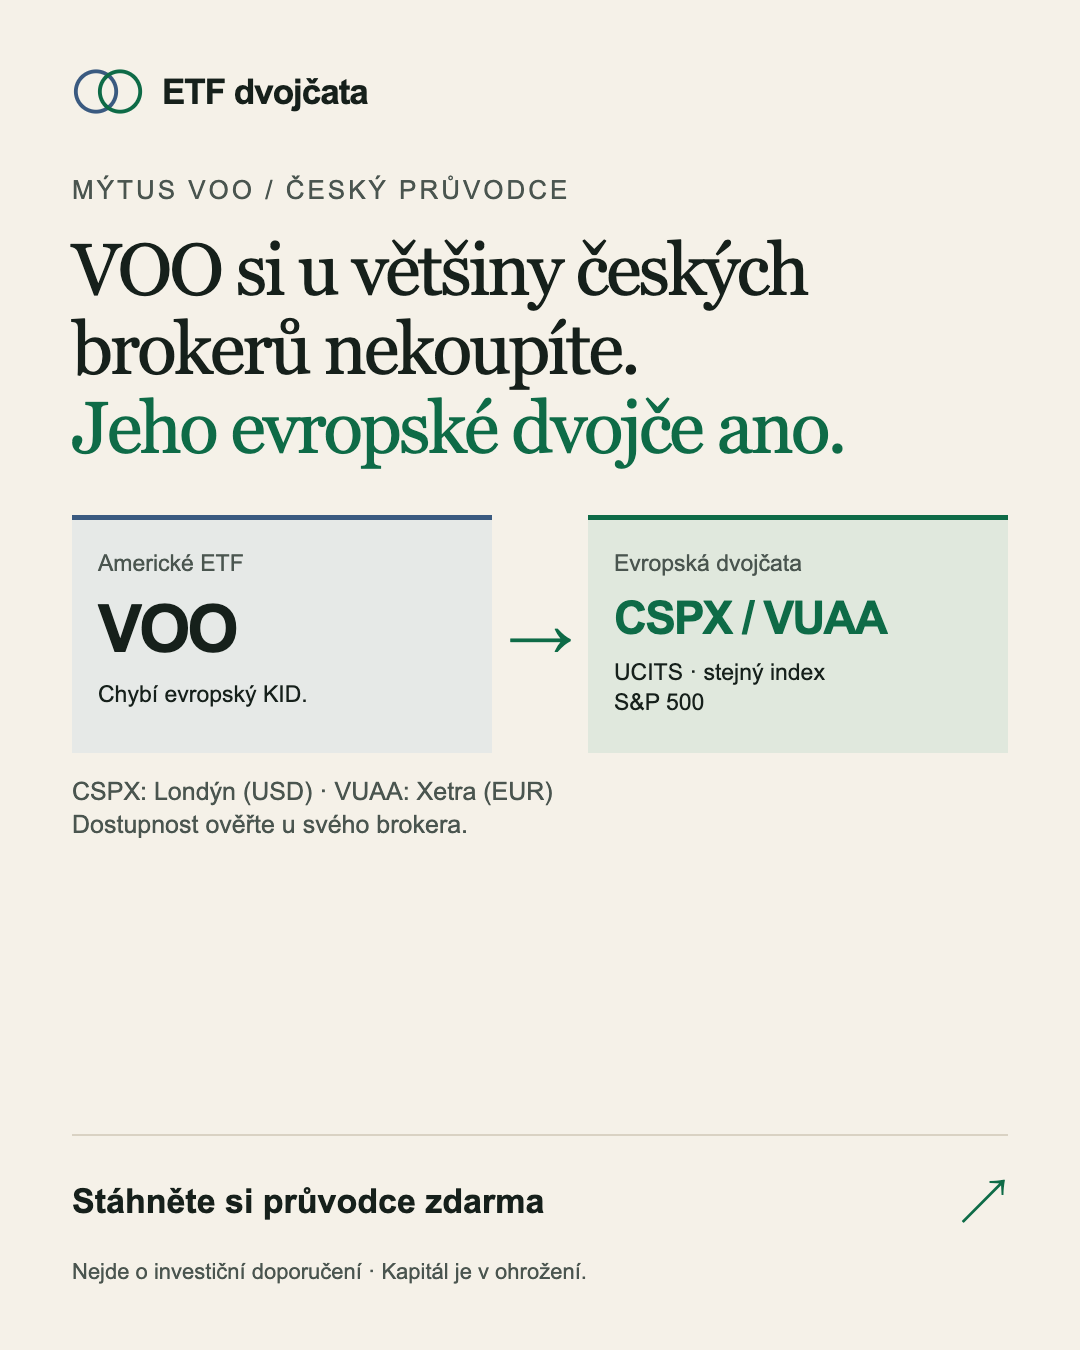
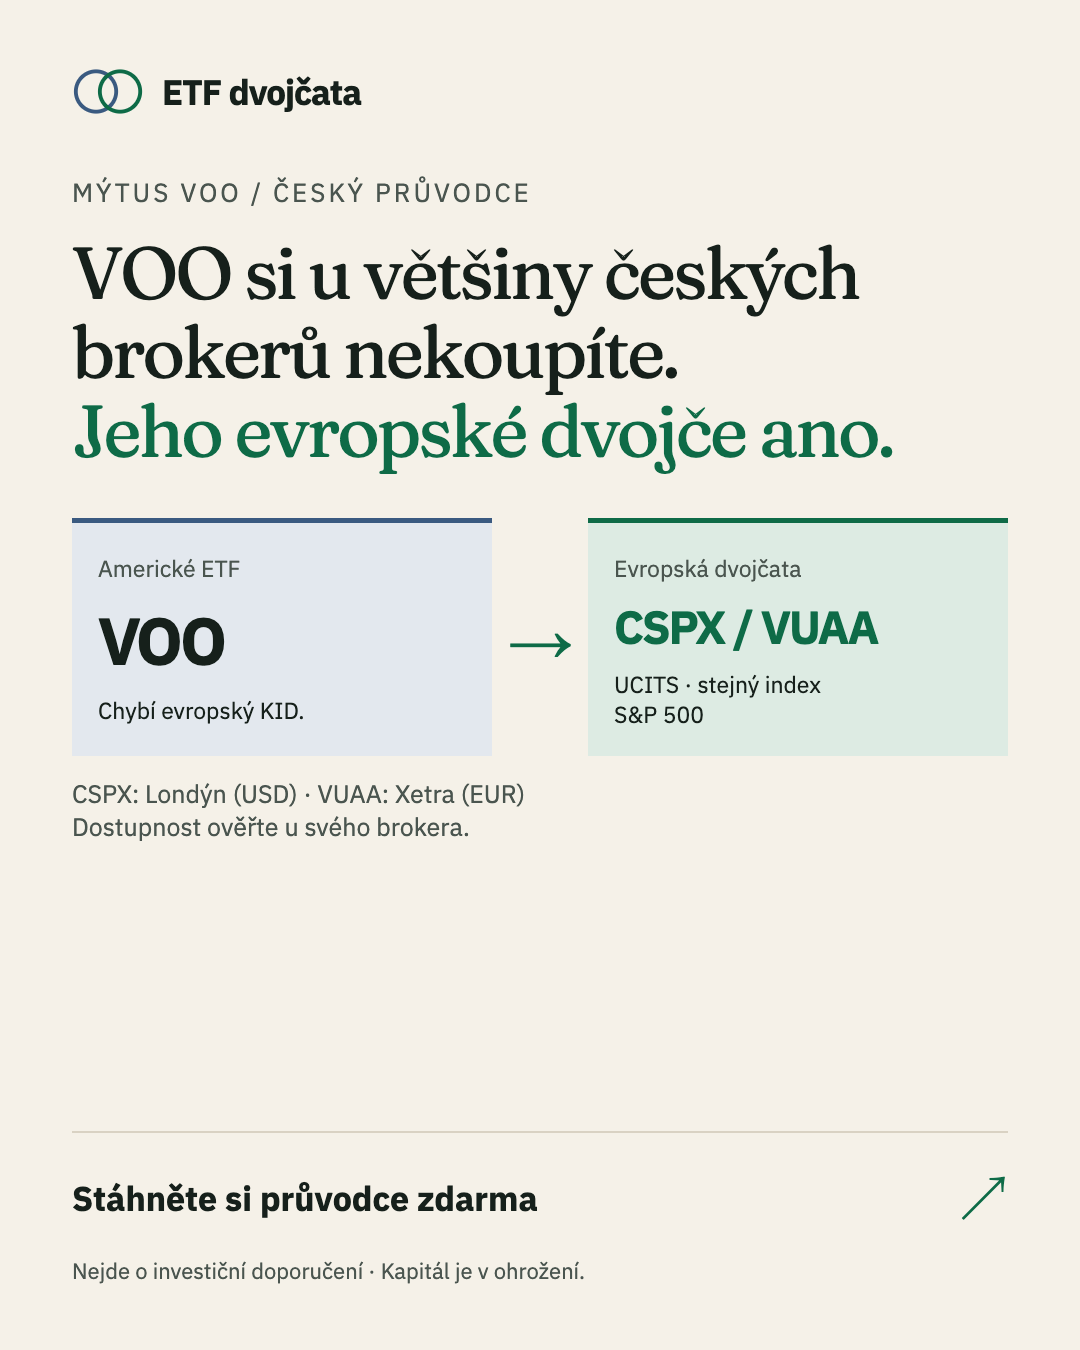
Align ad typography and colors with landing tokens

diff --git a/ads/creative.css b/ads/creative.css
@@ -1,2 +1,51 @@
-:root{--paper:#F5F1E8;--ink:#16201B;--muted:#4A554F;--rules:#D9D2C3;--us:#3A5A80;--eu:#0E6B47;--accent:#B83A16;--highlight:#F2E36B}
-*{box-sizing:border-box}html,body{margin:0;width:1080px;background:var(--paper);color:var(--ink)}body{font-family:Arial,Helvetica,sans-serif}.canvas{width:1080px;height:1350px;padding:68px 72px;overflow:hidden;position:relative}.brand{display:flex;align-items:center;gap:17px;font-size:35px;font-weight:700;letter-spacing:-1px}.brand svg{width:73px;height:47px}.eyebrow{margin:60px 0 25px;font-size:26px;letter-spacing:3px;text-transform:uppercase;color:var(--muted)}h1{font-family:Georgia,serif;font-weight:400;font-size:73px;line-height:1.08;letter-spacing:-2.8px;margin:0}.em{color:var(--eu)}.twins{display:grid;grid-template-columns:1fr 64px 1fr;align-items:center;gap:16px;margin-top:48px}.card{height:238px;padding:30px 26px;border-top:5px solid var(--us);background:#e6e9e7}.card.eu{border-color:var(--eu);background:#e0e8dd}.card small{display:block;font-size:23px;color:var(--muted);margin-bottom:14px}.ticker{font-size:66px;letter-spacing:-3px;font-weight:700}.eu .ticker{font-size:46px;letter-spacing:-2px;white-space:nowrap;color:var(--eu)}.card p{font-size:23px;line-height:1.3;margin:13px 0 0}.arrow{font-size:65px;color:var(--eu)}.caption{font-size:25px;line-height:1.3;color:var(--muted);margin:22px 0 0}.bottom{position:absolute;left:72px;right:72px;bottom:65px}.cta{border-top:2px solid var(--rules);padding-top:29px;display:flex;justify-content:space-between;align-items:center;font-size:34px;font-weight:700}.cta span:last-child{color:var(--eu);font-size:48px}.disclaimer{font-size:22px;color:var(--muted);margin:22px 0 0}.story .canvas{height:1920px;padding-top:275px;padding-bottom:275px}.story .eyebrow{margin-top:80px}.story h1{font-size:82px;line-height:1.12}.story .twins{margin-top:65px}.story .card{height:270px;padding-top:38px}.story .bottom{bottom:275px}.b h1{font-size:70px}.b .number{display:block;font-family:Arial,Helvetica,sans-serif;font-weight:700;font-size:106px;letter-spacing:-5px;white-space:nowrap;margin:18px 0 12px;color:var(--accent)}.b .years{display:block;font-size:62px;letter-spacing:-2px}.fx-strip{margin-top:44px;display:grid;grid-template-columns:1fr 100px 1fr;gap:18px;align-items:center;background:var(--highlight);padding:28px 32px}.fx-strip div{font-size:32px;font-weight:700}.fx-strip small{font-size:23px;font-weight:400;display:block;margin-bottom:8px}.fx-strip .middle{font-size:42px;text-align:center;font-weight:400}.fx-note{font-size:28px;line-height:1.35;margin:24px 0 0;color:var(--muted)}.b.story h1{font-size:80px}.b.story .number{font-size:110px;margin-top:30px}.b.story .fx-strip{margin-top:55px}.b.story .fx-note{font-size:31px}
+@import url("../src/styles/tokens.css");
+@font-face {
+  font-family: 'Fraunces Variable';
+  font-style: normal;
+  font-display: block;
+  font-weight: 100 900;
+  src: url(../node_modules/@fontsource-variable/fraunces/files/fraunces-latin-ext-wght-normal.woff2) format('woff2-variations');
+  unicode-range: U+0100-02BA,U+02BD-02C5,U+02C7-02CC,U+02CE-02D7,U+02DD-02FF,U+0304,U+0308,U+0329,U+1D00-1DBF,U+1E00-1E9F,U+1EF2-1EFF,U+2020,U+20A0-20AB,U+20AD-20C0,U+2113,U+2C60-2C7F,U+A720-A7FF;
+}
+@font-face {
+  font-family: 'Fraunces Variable';
+  font-style: normal;
+  font-display: block;
+  font-weight: 100 900;
+  src: url(../node_modules/@fontsource-variable/fraunces/files/fraunces-latin-wght-normal.woff2) format('woff2-variations');
+  unicode-range: U+0000-00FF,U+0131,U+0152-0153,U+02BB-02BC,U+02C6,U+02DA,U+02DC,U+0304,U+0308,U+0329,U+2000-206F,U+20AC,U+2122,U+2191,U+2193,U+2212,U+2215,U+FEFF,U+FFFD;
+}
+@font-face {
+  font-family: 'IBM Plex Sans';
+  font-style: normal;
+  font-display: block;
+  font-weight: 400;
+  src: url(../node_modules/@fontsource/ibm-plex-sans/files/ibm-plex-sans-latin-ext-400-normal.woff2) format('woff2'), url(../node_modules/@fontsource/ibm-plex-sans/files/ibm-plex-sans-latin-ext-400-normal.woff) format('woff');
+  unicode-range: U+0100-02BA,U+02BD-02C5,U+02C7-02CC,U+02CE-02D7,U+02DD-02FF,U+0304,U+0308,U+0329,U+1D00-1DBF,U+1E00-1E9F,U+1EF2-1EFF,U+2020,U+20A0-20AB,U+20AD-20C0,U+2113,U+2C60-2C7F,U+A720-A7FF;
+}
+@font-face {
+  font-family: 'IBM Plex Sans';
+  font-style: normal;
+  font-display: block;
+  font-weight: 400;
+  src: url(../node_modules/@fontsource/ibm-plex-sans/files/ibm-plex-sans-latin-400-normal.woff2) format('woff2'), url(../node_modules/@fontsource/ibm-plex-sans/files/ibm-plex-sans-latin-400-normal.woff) format('woff');
+  unicode-range: U+0000-00FF,U+0131,U+0152-0153,U+02BB-02BC,U+02C6,U+02DA,U+02DC,U+0304,U+0308,U+0329,U+2000-206F,U+20AC,U+2122,U+2191,U+2193,U+2212,U+2215,U+FEFF,U+FFFD;
+}
+@font-face {
+  font-family: 'IBM Plex Sans';
+  font-style: normal;
+  font-display: block;
+  font-weight: 700;
+  src: url(../node_modules/@fontsource/ibm-plex-sans/files/ibm-plex-sans-latin-ext-700-normal.woff2) format('woff2'), url(../node_modules/@fontsource/ibm-plex-sans/files/ibm-plex-sans-latin-ext-700-normal.woff) format('woff');
+  unicode-range: U+0100-02BA,U+02BD-02C5,U+02C7-02CC,U+02CE-02D7,U+02DD-02FF,U+0304,U+0308,U+0329,U+1D00-1DBF,U+1E00-1E9F,U+1EF2-1EFF,U+2020,U+20A0-20AB,U+20AD-20C0,U+2113,U+2C60-2C7F,U+A720-A7FF;
+}
+@font-face {
+  font-family: 'IBM Plex Sans';
+  font-style: normal;
+  font-display: block;
+  font-weight: 700;
+  src: url(../node_modules/@fontsource/ibm-plex-sans/files/ibm-plex-sans-latin-700-normal.woff2) format('woff2'), url(../node_modules/@fontsource/ibm-plex-sans/files/ibm-plex-sans-latin-700-normal.woff) format('woff');
+  unicode-range: U+0000-00FF,U+0131,U+0152-0153,U+02BB-02BC,U+02C6,U+02DA,U+02DC,U+0304,U+0308,U+0329,U+2000-206F,U+20AC,U+2122,U+2191,U+2193,U+2212,U+2215,U+FEFF,U+FFFD;
+}
+:root{--paper:#F5F1E8;--ink:#16201B;--muted:var(--ink-muted,#4A554F);--rules:var(--rule,#D9D2C3);--us:#3A5A80;--eu:#0E6B47;--accent:var(--signal-ink,#B83A16);--highlight:var(--marker,#F2E36B)}
+*{box-sizing:border-box}html,body{margin:0;width:1080px;background:var(--paper);color:var(--ink)}body{font-family:var(--font-body,"IBM Plex Sans",Arial,sans-serif)}.canvas{width:1080px;height:1350px;padding:68px 72px;overflow:hidden;position:relative}.brand{display:flex;align-items:center;gap:17px;font-size:35px;font-weight:700;letter-spacing:-1px}.brand svg{width:73px;height:47px}.eyebrow{margin:60px 0 25px;font-size:26px;letter-spacing:3px;text-transform:uppercase;color:var(--muted)}h1{font-family:var(--font-display,"Fraunces Variable",Georgia,serif);font-weight:400;font-size:73px;line-height:1.08;letter-spacing:-2.8px;margin:0}.em{color:var(--eu)}.twins{display:grid;grid-template-columns:1fr 64px 1fr;align-items:center;gap:16px;margin-top:48px}.card{height:238px;padding:30px 26px;border-top:5px solid var(--us);background:var(--us-tint,#E3E8EE)}.card.eu{border-color:var(--eu);background:var(--eu-tint,#DDEBE3)}.card small{display:block;font-size:23px;color:var(--muted);margin-bottom:14px}.ticker{font-size:66px;letter-spacing:-3px;font-weight:700}.eu .ticker{font-size:46px;letter-spacing:-2px;white-space:nowrap;color:var(--eu)}.card p{font-size:23px;line-height:1.3;margin:13px 0 0}.arrow{font-size:65px;color:var(--eu)}.caption{font-size:25px;line-height:1.3;color:var(--muted);margin:22px 0 0}.bottom{position:absolute;left:72px;right:72px;bottom:65px}.cta{border-top:2px solid var(--rules);padding-top:29px;display:flex;justify-content:space-between;align-items:center;font-size:34px;font-weight:700}.cta span:last-child{color:var(--eu);font-size:48px}.disclaimer{font-size:22px;color:var(--muted);margin:22px 0 0}.story .canvas{height:1920px;padding-top:275px;padding-bottom:275px}.story .eyebrow{margin-top:80px}.story h1{font-size:82px;line-height:1.12}.story .twins{margin-top:65px}.story .card{height:270px;padding-top:38px}.story .bottom{bottom:275px}.b h1{font-size:70px}.b .number{display:block;font-family:var(--font-body,"IBM Plex Sans",Arial,sans-serif);font-weight:700;font-size:106px;letter-spacing:-5px;white-space:nowrap;margin:18px 0 12px;color:var(--accent)}.b .years{display:block;font-size:62px;letter-spacing:-2px}.fx-strip{margin-top:44px;display:grid;grid-template-columns:1fr 100px 1fr;gap:18px;align-items:center;background:var(--highlight);padding:28px 32px}.fx-strip div{font-size:32px;font-weight:700}.fx-strip small{font-size:23px;font-weight:400;display:block;margin-bottom:8px}.fx-strip .middle{font-size:42px;text-align:center;font-weight:400}.fx-note{font-size:28px;line-height:1.35;margin:24px 0 0;color:var(--muted)}.b.story h1{font-size:80px}.b.story .number{font-size:110px;margin-top:30px}.b.story .fx-strip{margin-top:55px}.b.story .fx-note{font-size:31px}

diff --git a/ads/README.md b/ads/README.md
@@ -4,7 +4,7 @@ Educational Czech ETF comparison, prepared 11 October 2026. Two promises, two ma
 
 ## Creative files and build
 
-`a-feed.html`, `a-story.html`, `b-feed.html`, `b-story.html` share `creative.css`. Feed is 1080 × 1350; story is 1080 × 1920. All story text fits between y=250 and y=1670. The background extends to every edge. Hooks are at least 70 px. The mark uses two overlapping circles. Local type packages and landing tokens were absent when the templates were prepared: Georgia and system sans use the specified fallback palette.
+`a-feed.html`, `a-story.html`, `b-feed.html`, `b-story.html` share `creative.css`. Feed is 1080 × 1350; story is 1080 × 1920. All story text fits between y=250 and y=1670. The background extends to every edge. Hooks are at least 70 px. The mark uses two overlapping circles. The creatives import the landing design tokens and load local Fraunces and IBM Plex Sans font files, including Czech glyphs. Georgia and system sans are fallbacks. The renderer resolves local font and token URLs for its temporary HTML.
 
 Run from the repository root:
 
@@ -14,7 +14,7 @@ ads/build.sh 41300
 
 This example supplies a number; it is **not a verified calculator result**. The script renders all four files into `ads/out/`, formats whole crowns with non-breaking thousands separators (`41 300`), uses isolated temporary Chrome profiles, and removes its temporary files. Chrome must be installed at `/Applications/Google Chrome.app/Contents/MacOS/Google Chrome`; Python 3 is required. No package installation is needed. Template `{{N}}` placeholders remain untouched.
 
-The initial Chrome invocation wrote A's feed image but stayed running. The renderer now stops its own process group after the PNG is written; a corrected layout pass completed with `ads/build.sh 0`. Only A's production PNGs remain in `out/`; B's dummy PNGs were removed after visual inspection. B is pending the landing calculator's confirmed value. Before rebuilding B, record the calculator settings (monthly contribution, years, selected brokers, FX rates, returns, commission and liquidation assumptions). Reproduce that same scenario on the first screen or directly reachable calculator. The value must describe a modeled cost difference, not an investment return or guaranteed saving. For a value wider than the available number line, adjust type size while keeping hook text at least 48 px and inspect both outputs again.
+The layout check used `ads/build.sh 0`. Only A's production PNGs remain in `out/`; B's dummy PNGs were removed after visual inspection. B is pending the landing calculator's confirmed value. Before rebuilding B, record the calculator settings (monthly contribution, years, selected brokers, FX rates, returns, commission and liquidation assumptions). Reproduce that same scenario on the first screen or directly reachable calculator. The value must describe a modeled cost difference, not an investment return or guaranteed saving. For a value wider than the available number line, adjust type size while keeping hook text at least 48 px and inspect both outputs again.
 
 ## A — Mýtus VOO
 
